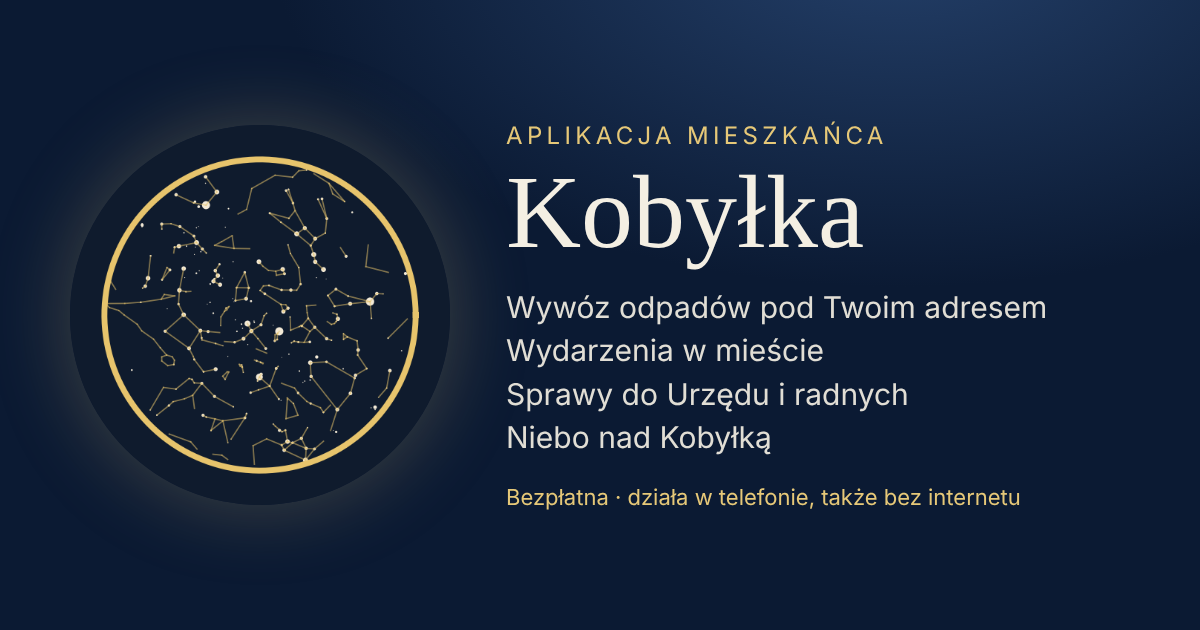
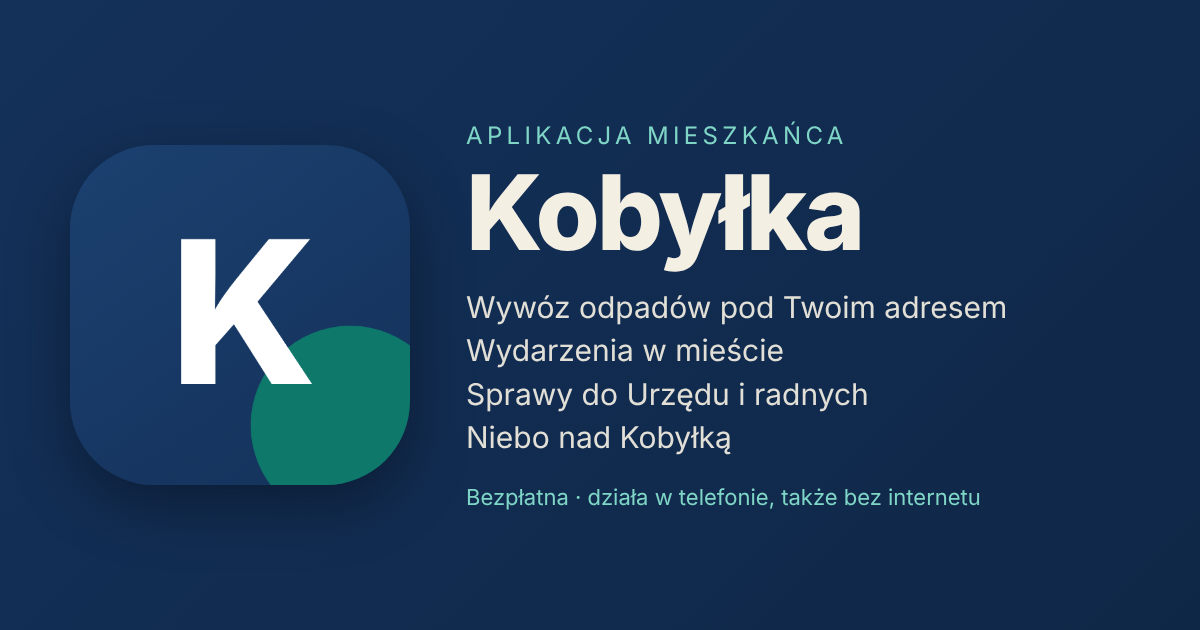
Kobyłka: nowy wygląd (UX/UI) – jasny interfejs, 5 zakładek, menu Więcej, nowa ikona; gwiazdy tylko w Odkrywaj
Claude-Session: https://claude.ai/code/session_01RNTNVLS6rVWRtfnpgfJcLE

diff --git a/kobylka/index.html b/kobylka/index.html
@@ -3,13 +3,13 @@
 <head>
 <meta charset="utf-8">
 <meta name="viewport" content="width=device-width, initial-scale=1, viewport-fit=cover">
-<meta name="theme-color" content="#0F1B2D">
+<meta name="theme-color" content="#F4F6F9">
 <title>Aplikacja mieszkańca Kobyłki</title>
 <link rel="manifest" href="manifest.webmanifest">
 <link rel="apple-touch-icon" href="apple-touch-icon.png">
 <link rel="icon" href="icon-192.png">
 <meta name="apple-mobile-web-app-capable" content="yes">
-<meta name="apple-mobile-web-app-status-bar-style" content="black-translucent">
+<meta name="apple-mobile-web-app-status-bar-style" content="default">
 <meta name="apple-mobile-web-app-title" content="Kobyłka">
 <meta property="og:type" content="website"><meta property="og:url" content="https://lechur.github.io/wehikul-czasu/kobylka/"><meta property="og:title" content="Aplikacja mieszkańca Kobyłki"><meta property="og:description" content="Wywóz odpadów pod Twoim adresem, wydarzenia, sprawy do Urzędu i radnych, firmy sąsiadów i niebo nad Kobyłką. Bezpłatnie, w telefonie."><meta property="og:image" content="https://lechur.github.io/wehikul-czasu/kobylka/og.png"><meta property="og:image:width" content="1200"><meta property="og:image:height" content="630"><meta property="og:locale" content="pl_PL"><meta name="twitter:card" content="summary_large_image">
 <meta name="description" content="Aplikacja mieszkańca Kobyłki: odpady, wydarzenia, zgłoszenia i pisma do Urzędu, sprawy do radnych, niebo nad miastem.">
@@ -78,25 +78,104 @@ nav.bar button.on{color:var(--gold)}
 details summary{cursor:pointer}
 .photo{max-width:100%;border-radius:10px;margin-top:6px}
 .empty{text-align:center;color:var(--mut);padding:20px}
+
+/* ===== UX/UI 2026-11 ===== */
+:root{--bg:#F4F6F9;--card:#fff;--ink:#14213D;--mut:#5B6577;--line:#E4E8EF;--pri:#14315A;--acc:#0E7C6B;--acc2:#E6F4F1;--acc-ink:#0B5E52;--warm:#F59E0B;--night:#14315A;--night2:#1C4170}
+body{font-family:-apple-system,BlinkMacSystemFont,"Segoe UI",Roboto,Inter,Arial,sans-serif;background:var(--bg);-webkit-font-smoothing:antialiased;-webkit-tap-highlight-color:transparent}
+header.app{position:sticky;top:0;z-index:12;background:rgba(244,246,249,.92);backdrop-filter:saturate(1.4) blur(14px);-webkit-backdrop-filter:saturate(1.4) blur(14px);color:var(--ink);padding:calc(10px + env(safe-area-inset-top)) 16px 10px;display:flex;align-items:center;gap:12px;border-bottom:1px solid transparent}
+header.app.sc{border-bottom-color:var(--line)}
+header.app .logo{width:38px;height:38px;border-radius:11px;background:var(--pri);color:#fff;display:grid;place-items:center;font-weight:800;font-size:18px;letter-spacing:-.02em;flex:none}
+header.app h1{font-family:inherit;font-weight:800;font-size:20px;letter-spacing:-.02em;margin:0;line-height:1.1}
+header.app .hdate{font-size:12.5px;color:var(--mut);text-transform:capitalize}
+.ib{width:42px;height:42px;border-radius:12px;border:0;background:#fff;color:var(--ink);display:grid;place-items:center;box-shadow:0 1px 2px rgba(20,33,61,.08);cursor:pointer}
+main{max-width:720px;padding:6px 16px calc(110px + env(safe-area-inset-bottom))}
+h2{font-family:inherit;font-weight:800;font-size:26px;letter-spacing:-.02em;margin:10px 0 12px}
+h3{font-size:12px;font-weight:700;letter-spacing:.08em;color:var(--mut);margin:22px 0 8px}
+.sec{display:flex;align-items:baseline;justify-content:space-between}.sec a,.sec button{font-size:14px;font-weight:600;color:var(--acc);text-decoration:none;background:none;border:0;padding:0;cursor:pointer}
+.card{border:0;border-radius:18px;padding:16px;box-shadow:0 1px 2px rgba(20,33,61,.06),0 4px 16px rgba(20,33,61,.04)}
+.card.night{background:var(--acc2);color:var(--ink);box-shadow:none}.card.night .mut{color:var(--mut)}
+.card.dark{background:linear-gradient(160deg,#0F1B2D,#16263f);color:#F3EAD7;border:0}.card.dark .mut{color:#c9c3b3}
+.mut{font-size:14px}
+.btn{background:var(--pri);border-radius:14px;padding:13px 18px;font-weight:650;min-height:46px;transition:transform .08s}
+.btn:active{transform:scale(.98)}
+.btn.gold{background:var(--acc);color:#fff}.btn.line{background:#fff;color:var(--ink);border:1px solid #CBD2DC}.btn.sm{padding:9px 14px;min-height:38px;font-size:14px;border-radius:12px}
+input,select,textarea{font-size:16px;padding:12px 13px;border:1px solid #CFD6E0;border-radius:12px;min-height:48px}
+input:focus,select:focus,textarea:focus{outline:none;border-color:var(--acc);box-shadow:0 0 0 3px rgba(14,124,107,.15)}
+label{font-size:14px;font-weight:600;color:var(--ink)}
+.chip{background:#EEF1F5;color:var(--ink);font-weight:500;padding:4px 10px}
+nav.bar{background:rgba(255,255,255,.96);backdrop-filter:blur(14px);-webkit-backdrop-filter:blur(14px);border-top:1px solid var(--line);grid-template-columns:repeat(5,1fr);padding:6px 6px calc(8px + env(safe-area-inset-bottom))}
+nav.bar button{color:#7A8496;font-size:11px;font-weight:600;display:flex;flex-direction:column;align-items:center;gap:3px;padding:6px 0}
+nav.bar button .i{width:24px;height:24px}
+nav.bar button.on{color:var(--acc)}
+nav.bar button.fab .i{width:30px;height:30px;color:#fff;background:var(--acc);border-radius:50%;padding:5px;box-sizing:content-box;margin-top:-4px;box-shadow:0 4px 12px rgba(14,124,107,.35)}
+nav.bar button.fab.on{color:var(--acc)}
+.toast{bottom:calc(92px + env(safe-area-inset-bottom));border-radius:14px;background:#14213D;box-shadow:0 8px 24px rgba(0,0,0,.2)}
+.qa{display:grid;grid-template-columns:1fr 1fr;gap:10px;margin:12px 0}
+.qa button{display:flex;flex-direction:column;align-items:flex-start;gap:10px;background:#fff;border:0;border-radius:18px;padding:14px;text-align:left;font:inherit;color:var(--ink);box-shadow:0 1px 2px rgba(20,33,61,.06),0 4px 16px rgba(20,33,61,.04);cursor:pointer;min-height:96px}
+.qa button:active{transform:scale(.98)}
+.qa .ico{width:40px;height:40px;border-radius:12px;display:grid;place-items:center}
+.qa b{font-size:15px;line-height:1.2}.qa small{display:block;color:var(--mut);font-size:12.5px;margin-top:2px;font-weight:400}
+.menu{background:#fff;border-radius:18px;overflow:hidden;box-shadow:0 1px 2px rgba(20,33,61,.06),0 4px 16px rgba(20,33,61,.04);margin:10px 0}
+.menu button{display:flex;align-items:center;gap:14px;width:100%;border:0;background:#fff;padding:14px 16px;font:inherit;color:var(--ink);text-align:left;border-bottom:1px solid var(--line);cursor:pointer;min-height:64px}
+.menu button:last-child{border-bottom:0}.menu button:active{background:#F6F8FA}
+.menu .ico{width:40px;height:40px;border-radius:12px;display:grid;place-items:center;flex:none}
+.menu .t{flex:1;min-width:0}.menu .t b{display:block;font-size:16px}.menu .t small{color:var(--mut);font-size:13px}
+.menu .chev{color:#A0A8B6}
+.badge{background:var(--acc);color:#fff;font-size:12px;font-weight:700;border-radius:999px;padding:2px 8px}
+.c1{background:#E6F4F1;color:#0E7C6B}.c2{background:#EAF0FB;color:#2456B3}.c3{background:#FEF3E2;color:#B45309}.c4{background:#F3ECFB;color:#7C3AED}.c5{background:#FDECEC;color:#C2410C}.c6{background:#EEF1F5;color:#334155}
+#s-waste{background:linear-gradient(135deg,#0E7C6B,#0B5E52);color:#fff}
+#s-waste .mut{color:rgba(255,255,255,.8)}#s-waste .wtag{color:#fff}#s-waste .btn.line{background:rgba(255,255,255,.15);color:#fff;border-color:rgba(255,255,255,.35)}#s-waste .btn{background:#fff;color:var(--acc-ink)}
+#s-waste .wbig{font-size:24px;font-weight:800;letter-spacing:-.01em;margin:2px 0 8px}
+.wnext{background:linear-gradient(135deg,#0E7C6B,#0B5E52)}.wnext .when{font-family:inherit;font-weight:800;letter-spacing:-.01em}
+.wday,.ev .d{background:#EEF1F5}
+.ev.sky .d{background:#14315A;color:#fff}
+.today{display:flex;gap:14px;align-items:center}.today .ico{width:44px;height:44px;border-radius:14px;display:grid;place-items:center;flex:none}
+#install{background:#fff!important;color:var(--ink);box-shadow:0 10px 30px rgba(20,33,61,.18)}#install .mut{color:var(--mut)}#install-x{color:var(--mut)}
+header.app .hdate{text-transform:none}
+#s-dzis{text-transform:none!important}
+#s-waste .wtag i,.wnext .bin i{box-shadow:0 0 0 2px rgba(255,255,255,.85)}
+nav.bar button .i{height:26px}
+nav.bar button.fab .i{width:26px;height:26px;padding:8px;margin-top:-16px}
+#s-zap .card .flex-wrap{margin-top:auto!important;padding-top:10px}
+#f-branze,#v-kal>.flex-wrap{flex-wrap:nowrap;overflow-x:auto;margin-left:-16px;margin-right:-16px;padding:2px 16px 6px;scrollbar-width:none}
+#f-branze::-webkit-scrollbar,#v-kal>.flex-wrap::-webkit-scrollbar{display:none}
+#f-branze .btn,#v-kal>.flex-wrap .btn{white-space:nowrap;flex:none}
+.back{display:none;width:38px;height:38px;border-radius:11px;border:0;background:#fff;color:var(--ink);place-items:center;box-shadow:0 1px 2px rgba(20,33,61,.08);cursor:pointer;flex:none}
+header.app.sub .back{display:grid}header.app.sub .logo{display:none}
+.back svg{transform:rotate(180deg)}
+.tabs{display:flex;gap:6px;overflow-x:auto;margin:0 -16px 10px;padding:2px 16px 4px;scrollbar-width:none}.tabs::-webkit-scrollbar{display:none}
+.tabs button{flex:none;white-space:nowrap;font:inherit;font-size:14px;font-weight:600;border:1px solid #CBD2DC;background:#fff;color:var(--ink);border-radius:999px;padding:8px 14px;cursor:pointer}
+.tabs button.on{background:var(--pri);border-color:var(--pri);color:#fff}
+header.app .logo{background:linear-gradient(145deg,#1C4170,#14315A);position:relative;overflow:hidden}header.app .logo::after{content:"";position:absolute;right:-9px;bottom:-9px;width:22px;height:22px;border-radius:50%;background:#0E7C6B;z-index:0}header.app .logo{z-index:0}header.app .logo span{position:relative;z-index:1}
+.letter{font-size:15px;line-height:1.55;color:var(--ink)}
 </style>
 </head>
 <body>
-<header>
-  <canvas id="hsky" aria-label="Niebo nad Kobyłką teraz"></canvas>
-  <div class="grow"><div class="sub" style="letter-spacing:.12em;text-transform:uppercase;color:var(--gold);font-size:11px">Aplikacja mieszkańca</div><h1>Kobyłka</h1><div class="sub" id="hsub">Niebo nad Kobyłką w tej chwili</div></div>
+<header class="app"><canvas id="hsky" hidden></canvas><span id="hsub" hidden></span>
+  <button class="back" data-go="menu" aria-label="Wróć"><svg class="i" width="22" height="22" viewBox="0 0 24 24" fill="none" stroke="currentColor" stroke-width="2" stroke-linecap="round" stroke-linejoin="round" aria-hidden="true"><path d="M9 6l6 6-6 6"/></svg></button><div class="logo" aria-hidden="true"><span>K</span></div>
+  <div class="grow"><h1>Kobyłka</h1><div class="hdate" id="hdate">Aplikacja mieszkańca</div></div>
+  <button class="ib" data-polec aria-label="Poleć aplikację"><svg class="i" width="22" height="22" viewBox="0 0 24 24" fill="none" stroke="currentColor" stroke-width="1.8" stroke-linecap="round" stroke-linejoin="round" aria-hidden="true"><circle cx="18" cy="5.5" r="2.5"/><circle cx="6" cy="12" r="2.5"/><circle cx="18" cy="18.5" r="2.5"/><path d="M8.2 10.8l7.6-4M8.2 13.2l7.6 4"/></svg></button>
 </header>
 <main>
 <!-- START -->
 <section class="view on" id="v-start">
-  <div class="card night" style="text-align:center;padding:10px"><canvas id="startsky" style="width:min(340px,80vw);height:min(340px,80vw)"></canvas><div class="mut">Niebo nad Kobyłką w tej chwili · <a href="#" data-go="odkryj" style="color:var(--gold)">zobacz niebo w swoim dniu</a></div></div>
-  <h3>Zapowiedzi</h3><div id="s-zap" style="display:flex;gap:10px;overflow-x:auto;scroll-snap-type:x mandatory;padding-bottom:6px"></div>
-  <div class="card night"><div class="row"><div class="grow"><div class="mut">Dziś</div><div class="big" id="s-dzis"></div><div class="mut" id="s-sun"></div></div><div style="text-align:right"><div class="mut">Księżyc</div><div id="s-moon"></div></div></div></div>
-  <h3>Odpady</h3><div class="card" id="s-waste"></div>
-  <h3>Moje sprawy</h3><div class="card" id="s-sprawy"></div>
-  <h3>Sąsiedzi polecają</h3><div id="s-firmy" style="display:flex;gap:10px;overflow-x:auto;scroll-snap-type:x mandatory;padding-bottom:6px"></div>
-  <h3>Na niebie</h3><div class="card" id="s-ev"></div>
-  <div class="card"><div class="mut" style="font-family:Georgia,serif;font-size:16px;color:var(--ink)">Drodzy Mieszkańcy, przygotowałam dla Was aplikację, w której Kobyłka mieści się w kieszeni: odpady, wydarzenia, sprawy do załatwienia w Urzędzie i niebo nad naszym miastem. Jest otwarta dla wszystkich radnych, więc swoją sprawę możecie przekazać radnemu, którego wybierzecie.</div><div class="mut" style="margin-top:6px">Edyta Zbieć, radna Rady Miasta Kobyłka</div></div>
-  <div class="card"><b>Coś nie działa albo czegoś brakuje?</b><p class="mut">Zgłoś dziurę, zgasłą latarnię, potrzebę przejścia dla pieszych. Aplikacja przygotuje pismo do Urzędu, przypilnuje terminu odpowiedzi i w razie potrzeby przygotuje ponaglenie.</p><button class="btn gold" data-go="zglos">Zgłoś sprawę</button></div>
+  <div class="sec"><h3>Wywóz odpadów</h3></div>
+  <div class="card" id="s-waste"></div>
+  <div class="qa">
+   <button data-go="zglos"><span class="ico c5"><svg class="i" width="24" height="24" viewBox="0 0 24 24" fill="none" stroke="currentColor" stroke-width="1.8" stroke-linecap="round" stroke-linejoin="round" aria-hidden="true"><path d="M12 3 2.5 20h19z"/><path d="M12 10v4.5M12 17.5v.01"/></svg></span><span><b>Zgłoś problem</b><small>dziura, latarnia, potrzeba</small></span></button>
+   <button data-go="sprawy"><span class="ico c2"><svg class="i" width="24" height="24" viewBox="0 0 24 24" fill="none" stroke="currentColor" stroke-width="1.8" stroke-linecap="round" stroke-linejoin="round" aria-hidden="true"><path d="M4 13l2.5-8h11L20 13v6H4z"/><path d="M4 13h4.5l1 2h5l1-2H20"/></svg></span><span><b>Moje sprawy</b><small>pisma i terminy</small></span></button>
+   <button data-go="wiecej"><span class="ico c3"><svg class="i" width="24" height="24" viewBox="0 0 24 24" fill="none" stroke="currentColor" stroke-width="1.8" stroke-linecap="round" stroke-linejoin="round" aria-hidden="true"><path d="M5 4h4l2 5-2.5 1.5a11 11 0 0 0 5 5L15 13l5 2v4a2 2 0 0 1-2 2A16 16 0 0 1 3 6a2 2 0 0 1 2-2"/></svg></span><span><b>Ważne telefony</b><small>awarie i alarmowe</small></span></button>
+   <button data-go="firmy"><span class="ico c1"><svg class="i" width="24" height="24" viewBox="0 0 24 24" fill="none" stroke="currentColor" stroke-width="1.8" stroke-linecap="round" stroke-linejoin="round" aria-hidden="true"><path d="M4 9l1.5-5h13L20 9"/><path d="M4 9a2.7 2.7 0 0 0 5.3 0 2.7 2.7 0 0 0 5.4 0 2.7 2.7 0 0 0 5.3 0"/><path d="M5.5 11.5V20h13v-8.5M10 20v-5h4v5"/></svg></span><span><b>Firmy sąsiadów</b><small>kupuj lokalnie</small></span></button>
+  </div>
+  <div class="sec"><h3>Wydarzenia</h3><button data-go="kal">Wszystkie</button></div>
+  <div id="s-zap" style="display:flex;gap:10px;overflow-x:auto;scroll-snap-type:x mandatory;padding-bottom:6px;margin:0 -16px;padding-left:16px;padding-right:16px;scroll-padding-left:16px"></div>
+  <div class="sec"><h3>Moje sprawy</h3><button data-go="sprawy">Otwórz</button></div><div class="card" id="s-sprawy"></div>
+  <div class="sec"><h3>Sąsiedzi polecają</h3><button data-go="firmy">Katalog</button></div>
+  <div id="s-firmy" style="display:flex;gap:10px;overflow-x:auto;scroll-snap-type:x mandatory;padding-bottom:6px;margin:0 -16px;padding-left:16px;padding-right:16px;scroll-padding-left:16px"></div>
+  <h3>Dziś</h3>
+  <div class="card today"><span class="ico c3"><svg class="i" width="24" height="24" viewBox="0 0 24 24" fill="none" stroke="currentColor" stroke-width="1.8" stroke-linecap="round" stroke-linejoin="round" aria-hidden="true"><path d="M12 3.5l2.6 5.3 5.9.9-4.3 4.1 1 5.8L12 16.9l-5.2 2.7 1-5.8L3.5 9.7l5.9-.9z"/></svg></span><div class="grow"><b id="s-dzis" style="text-transform:capitalize"></b><div class="mut" id="s-sun"></div><div class="mut">Księżyc: <span id="s-moon"></span></div></div><button class="btn sm line" data-go="odkryj">Odkrywaj</button></div>
+  <div class="card"><div class="letter">Drodzy Mieszkańcy, przygotowałam dla Was aplikację, w której Kobyłka mieści się w kieszeni: odpady, wydarzenia, sprawy do załatwienia w Urzędzie i niebo nad naszym miastem. Jest otwarta dla wszystkich radnych, więc swoją sprawę możecie przekazać radnemu, którego wybierzecie.</div><div class="mut" style="margin-top:8px">— Edyta Zbieć, radna Rady Miasta Kobyłka</div></div>
+  <div hidden><canvas id="startsky"></canvas><div id="s-ev"></div></div>
 </section>
 
 <!-- ODPADY -->
@@ -114,7 +193,7 @@ details summary{cursor:pointer}
 
 <!-- KALENDARZ -->
 <section class="view" id="v-kal">
-  <h2>Kalendarz Kobyłki</h2>
+  <h2>Wydarzenia</h2>
   <div class="flex-wrap"><button class="btn sm" data-f="wszystko">Wszystko</button><button class="btn sm line" data-f="miasto">W mieście</button><button class="btn sm line" data-f="niebo">Na niebie</button><button class="btn sm line" data-f="odpady">Odpady</button></div>
   <div class="card" id="k-lista"></div>
   <button class="btn line wide" id="k-ics">Dodaj cały kalendarz do telefonu</button>
@@ -134,11 +213,6 @@ details summary{cursor:pointer}
 <!-- ODKRYWAJ -->
 <section class="view" id="v-odkryj">
   <h2>Odkrywaj Kobyłkę</h2>
-  <div class="card night" style="text-align:center"><b style="font-family:Georgia,serif;font-size:20px;font-weight:400">Niebo w Twoim dniu</b>
-   <p class="mut">Urodziny, ślub, narodziny dziecka, pierwszy dzień w Kobyłce. Zobacz, jak wyglądały gwiazdy nad naszym miastem.</p>
-   <div class="flex-wrap" style="justify-content:center"><input type="date" id="my-d" value="2000-01-01" min="1900-01-01" max="2100-12-31" style="width:auto"><input type="time" id="my-t" value="21:00" style="width:auto"></div>
-   <canvas id="mysky" style="width:min(380px,84vw);height:min(380px,84vw);margin-top:10px"></canvas><div class="mut" id="my-info"></div>
-   <div class="flex-wrap" style="justify-content:center;margin-top:8px"><button class="btn sm gold" id="my-save">Zapisz jako obrazek</button><button class="btn sm" id="my-share" style="background:rgba(255,255,255,.12)">Udostępnij</button></div></div>
   <h3>Mapy Kobyłki</h3>
   <div class="tabs" id="maptabs"><button data-m="wzrost" class="on">Jak rosła Kobyłka</button><button data-m="rzezba">Rzeźba terenu</button><button data-m="budynki">Każdy budynek</button><button data-m="ulice">Ulice</button></div>
   <img id="mapimg" src="img/wzrost.jpg" alt="Mapa Kobyłki" style="width:100%;border-radius:14px;display:block" loading="lazy"><p class="mut" id="mapdesc"></p>
@@ -156,7 +230,13 @@ details summary{cursor:pointer}
    <div class="ev"><div class="d">14–15<span>VIII 1920</span></div><div class="grow"><b>Walki nad Czarną i Długą</b><div class="mut">Bitwa Warszawska tuż obok, w Ossowie. Obchody co roku na Placu 15 Sierpnia.</div></div></div>
    <div class="ev"><div class="d">1969</div><div class="grow"><b>Kobyłka miastem</b><div class="mut">Nadanie praw miejskich.</div></div></div>
    <p class="mut">Źródła: <a href="https://www.kobylka.pl/strona-3967-historia_kobylki.html">kobylka.pl</a>, <a href="https://zabytek.pl/en/obiekty/kobylka-bazylika-mniejsza-pw-swietej-trojcy">zabytek.pl</a>.</p></div>
-  <button class="btn line wide" data-go="wiecej">Ważne telefony i adresy</button>
+  <h3>Niebo nad Kobyłką</h3>
+  <div class="card dark" style="text-align:center"><b style="font-size:20px">Niebo w Twoim dniu</b>
+   <p class="mut">Urodziny, ślub, narodziny dziecka, pierwszy dzień w Kobyłce. Zobacz, jak wyglądały gwiazdy nad naszym miastem.</p>
+   <div class="flex-wrap" style="justify-content:center"><input type="date" id="my-d" value="2000-01-01" min="1900-01-01" max="2100-12-31" style="width:auto"><input type="time" id="my-t" value="21:00" style="width:auto"></div>
+   <canvas id="mysky" style="width:min(380px,84vw);height:min(380px,84vw);margin-top:10px"></canvas><div class="mut" id="my-info"></div>
+   <div class="flex-wrap" style="justify-content:center;margin-top:8px"><button class="btn sm gold" id="my-save">Zapisz jako obrazek</button><button class="btn sm" id="my-share" style="background:rgba(255,255,255,.12)">Udostępnij</button></div></div>
+  
 </section>
 
 <!-- ZGŁOŚ -->
@@ -191,30 +271,43 @@ details summary{cursor:pointer}
   <div id="sp-radna" hidden><h3>Panel radnego</h3><div class="card"><label>Jestem radną / radnym</label><select id="sp-ja"></select><p class="mut">Widzisz sprawy, które mieszkańcy przekazali Tobie.</p></div><div id="sp-radna-lista"></div></div>
 </section>
 
+<!-- MENU -->
+<section class="view" id="v-menu">
+  <h2>Więcej</h2>
+  <div class="menu">
+   <button data-go="sprawy"><span class="ico c2"><svg class="i" width="24" height="24" viewBox="0 0 24 24" fill="none" stroke="currentColor" stroke-width="1.8" stroke-linecap="round" stroke-linejoin="round" aria-hidden="true"><path d="M4 13l2.5-8h11L20 13v6H4z"/><path d="M4 13h4.5l1 2h5l1-2H20"/></svg></span><span class="t"><b>Moje sprawy</b><small>Pisma do Urzędu, terminy, radni</small></span><span id="m-sprawy"></span><span class="chev"><svg class="i" width="20" height="20" viewBox="0 0 24 24" fill="none" stroke="currentColor" stroke-width="1.8" stroke-linecap="round" stroke-linejoin="round" aria-hidden="true"><path d="M9 6l6 6-6 6"/></svg></span></button>
+   <button data-go="firmy"><span class="ico c1"><svg class="i" width="24" height="24" viewBox="0 0 24 24" fill="none" stroke="currentColor" stroke-width="1.8" stroke-linecap="round" stroke-linejoin="round" aria-hidden="true"><path d="M4 9l1.5-5h13L20 9"/><path d="M4 9a2.7 2.7 0 0 0 5.3 0 2.7 2.7 0 0 0 5.4 0 2.7 2.7 0 0 0 5.3 0"/><path d="M5.5 11.5V20h13v-8.5M10 20v-5h4v5"/></svg></span><span class="t"><b>Firmy sąsiadów</b><small>Usługi i sklepy z Kobyłki</small></span><span class="chev"><svg class="i" width="20" height="20" viewBox="0 0 24 24" fill="none" stroke="currentColor" stroke-width="1.8" stroke-linecap="round" stroke-linejoin="round" aria-hidden="true"><path d="M9 6l6 6-6 6"/></svg></span></button>
+   <button data-go="wiecej"><span class="ico c3"><svg class="i" width="24" height="24" viewBox="0 0 24 24" fill="none" stroke="currentColor" stroke-width="1.8" stroke-linecap="round" stroke-linejoin="round" aria-hidden="true"><path d="M5 4h4l2 5-2.5 1.5a11 11 0 0 0 5 5L15 13l5 2v4a2 2 0 0 1-2 2A16 16 0 0 1 3 6a2 2 0 0 1 2-2"/></svg></span><span class="t"><b>Ważne telefony i adresy</b><small>Awarie, Urząd, PSZOK, alarmowe</small></span><span class="chev"><svg class="i" width="20" height="20" viewBox="0 0 24 24" fill="none" stroke="currentColor" stroke-width="1.8" stroke-linecap="round" stroke-linejoin="round" aria-hidden="true"><path d="M9 6l6 6-6 6"/></svg></span></button>
+   <button data-go="odkryj"><span class="ico c4"><svg class="i" width="24" height="24" viewBox="0 0 24 24" fill="none" stroke="currentColor" stroke-width="1.8" stroke-linecap="round" stroke-linejoin="round" aria-hidden="true"><circle cx="12" cy="12" r="9"/><path d="M15.5 8.5l-2 5-5 2 2-5z"/></svg></span><span class="t"><b>Odkrywaj Kobyłkę</b><small>Mapy, historia, niebo w Twoim dniu</small></span><span class="chev"><svg class="i" width="20" height="20" viewBox="0 0 24 24" fill="none" stroke="currentColor" stroke-width="1.8" stroke-linecap="round" stroke-linejoin="round" aria-hidden="true"><path d="M9 6l6 6-6 6"/></svg></span></button>
+  </div>
+  <div class="menu">
+   <button id="m-inst"><span class="ico c6"><svg class="i" width="24" height="24" viewBox="0 0 24 24" fill="none" stroke="currentColor" stroke-width="1.8" stroke-linecap="round" stroke-linejoin="round" aria-hidden="true"><path d="M12 4v11M7 10l5 5 5-5"/><path d="M5 20h14"/></svg></span><span class="t"><b>Zainstaluj aplikację</b><small id="m-inst-txt">Ikona na ekranie telefonu</small></span><span class="chev"><svg class="i" width="20" height="20" viewBox="0 0 24 24" fill="none" stroke="currentColor" stroke-width="1.8" stroke-linecap="round" stroke-linejoin="round" aria-hidden="true"><path d="M9 6l6 6-6 6"/></svg></span></button>
+   <button data-polec><span class="ico c6"><svg class="i" width="24" height="24" viewBox="0 0 24 24" fill="none" stroke="currentColor" stroke-width="1.8" stroke-linecap="round" stroke-linejoin="round" aria-hidden="true"><circle cx="18" cy="5.5" r="2.5"/><circle cx="6" cy="12" r="2.5"/><circle cx="18" cy="18.5" r="2.5"/><path d="M8.2 10.8l7.6-4M8.2 13.2l7.6 4"/></svg></span><span class="t"><b>Poleć sąsiadom</b><small>Wyślij link albo pokaż kod QR</small></span><span class="chev"><svg class="i" width="20" height="20" viewBox="0 0 24 24" fill="none" stroke="currentColor" stroke-width="1.8" stroke-linecap="round" stroke-linejoin="round" aria-hidden="true"><path d="M9 6l6 6-6 6"/></svg></span></button>
+   <button data-go="wiecej" data-scroll="w-dane"><span class="ico c6"><svg class="i" width="24" height="24" viewBox="0 0 24 24" fill="none" stroke="currentColor" stroke-width="1.8" stroke-linecap="round" stroke-linejoin="round" aria-hidden="true"><path d="M12 3l8 3v6c0 4.5-3.4 8-8 9-4.6-1-8-4.5-8-9V6z"/></svg></span><span class="t"><b>Twoje dane i o aplikacji</b><small>Co zostaje w telefonie</small></span><span class="chev"><svg class="i" width="20" height="20" viewBox="0 0 24 24" fill="none" stroke="currentColor" stroke-width="1.8" stroke-linecap="round" stroke-linejoin="round" aria-hidden="true"><path d="M9 6l6 6-6 6"/></svg></span></button>
+  </div>
+</section>
+
 <!-- WIĘCEJ -->
 <section class="view" id="v-wiecej">
-  <h3>Aplikacja w Twoim telefonie</h3>
+  <h2 id="w-tel">Ważne telefony i adresy</h2>
+  <div id="w-awarie"></div>
+  <canvas id="bigsky" hidden></canvas>
+  <h3 id="w-app">Aplikacja w Twoim telefonie</h3>
   <div class="card night" id="w-inst"><div class="row"><img src="icon-192.png" alt="" style="width:52px;height:52px;border-radius:12px"><div class="grow"><b>Zainstaluj aplikację</b><div class="mut" id="w-inst-txt">Ikona na ekranie telefonu, działa także bez internetu.</div></div></div>
    <button class="btn gold wide" id="w-inst-btn" style="margin-top:10px">Zainstaluj</button>
    <div class="mut" style="margin-top:10px"><b style="color:var(--star)">Android:</b> w Chrome menu ⋮ → „Zainstaluj aplikację”.<br><b style="color:var(--star)">iPhone:</b> w Safari Udostępnij ⬆ → „Do ekranu początkowego”.</div></div>
   <div class="card" style="text-align:center"><b>Poleć sąsiadom</b><p class="mut">Pokaż ten kod do zeskanowania aparatem albo wyślij link.</p><img src="qr.png" alt="Kod QR do aplikacji" style="width:200px;height:200px"><button class="btn wide" data-polec style="margin-top:10px">Wyślij link do aplikacji</button></div>
-  <h2>Ważne telefony i adresy</h2>
-  <div id="w-awarie"></div>
-  <h3>Niebo nad Kobyłką</h3>
-  <div class="card night" style="text-align:center"><canvas id="bigsky" style="width:min(360px,86vw);height:min(360px,86vw)"></canvas><div class="mut">Tak wygląda niebo teraz. Północ u góry, wschód po lewej.</div></div>
-  <h3>Twoje dane</h3><div class="card mut"><b style="color:var(--ink)">Aplikacja nie wysyła Twoich danych na żaden serwer.</b> Sprawy, pisma i zdjęcia zostają w pamięci Twojego telefonu. Pismo do Urzędu wysyłasz sam(a): e-mailem, przez ePUAP lub gov.pl albo w kancelarii. Gdy przekazujesz sprawę radnemu, wysyłasz ją ze swojej skrzynki e-mail na adres radnego; od tej chwili za Twoje dane w tej sprawie odpowiada ten radny. Wyczyszczenie danych przeglądarki usuwa sprawy z telefonu.</div>
+  <h3 id="w-dane">Twoje dane</h3><div class="card mut"><b style="color:var(--ink)">Aplikacja nie wysyła Twoich danych na żaden serwer.</b> Sprawy, pisma i zdjęcia zostają w pamięci Twojego telefonu. Pismo do Urzędu wysyłasz sam(a): e-mailem, przez ePUAP lub gov.pl albo w kancelarii. Gdy przekazujesz sprawę radnemu, wysyłasz ją ze swojej skrzynki e-mail na adres radnego; od tej chwili za Twoje dane w tej sprawie odpowiada ten radny. Wyczyszczenie danych przeglądarki usuwa sprawy z telefonu.</div>
 <div class="card mut">Aplikacja mieszkańców i radnych Kobyłki. Inicjatywa radnej Edyty Zbieć, otwarta dla wszystkich radnych Rady Miasta. To nie jest usługa Urzędu Miasta Kobyłka. Pisma wysyłasz sam(a) albo przekazujesz wybranemu radnemu. Mapy: GUGiK (BDOT10k). Gwiazdy: HYG Database i Stellarium (CC BY-SA). Odpady i wydarzenia: kobylka.pl.</div>
 </section>
 </main>
 
 <nav class="bar">
-  <button data-go="start" class="on"><b>☾</b>Start</button>
-  <button data-go="odpady"><b>♻</b>Odpady</button>
-  <button data-go="kal"><b>✦</b>Kalendarz</button>
-  <button data-go="firmy"><b>⌂</b>Firmy</button>
-  <button data-go="odkryj"><b>☆</b>Odkrywaj</button>
-  <button data-go="zglos"><b>＋</b>Zgłoś</button>
-  <button data-go="sprawy"><b>✉</b>Sprawy</button>
+  <button data-go="start" class="on"><svg class="i" width="24" height="24" viewBox="0 0 24 24" fill="none" stroke="currentColor" stroke-width="1.8" stroke-linecap="round" stroke-linejoin="round" aria-hidden="true"><path d="M3 10.5 12 3l9 7.5"/><path d="M5 9.5V20h5v-6h4v6h5V9.5"/></svg>Start</button>
+  <button data-go="odpady"><svg class="i" width="24" height="24" viewBox="0 0 24 24" fill="none" stroke="currentColor" stroke-width="1.8" stroke-linecap="round" stroke-linejoin="round" aria-hidden="true"><path d="M4 7h16"/><path d="M9 7V4h6v3"/><path d="M6 7l1 13h10l1-13"/><path d="M10 11v6M14 11v6"/></svg>Odpady</button>
+  <button data-go="zglos" class="fab"><svg class="i" width="24" height="24" viewBox="0 0 24 24" fill="none" stroke="currentColor" stroke-width="1.8" stroke-linecap="round" stroke-linejoin="round" aria-hidden="true"><circle cx="12" cy="12" r="9"/><path d="M12 8v8M8 12h8"/></svg>Zgłoś</button>
+  <button data-go="kal"><svg class="i" width="24" height="24" viewBox="0 0 24 24" fill="none" stroke="currentColor" stroke-width="1.8" stroke-linecap="round" stroke-linejoin="round" aria-hidden="true"><rect x="3.5" y="5" width="17" height="15.5" rx="2.5"/><path d="M3.5 10h17M8 3v4M16 3v4"/></svg>Wydarzenia</button>
+  <button data-go="menu"><svg class="i" width="24" height="24" viewBox="0 0 24 24" fill="none" stroke="currentColor" stroke-width="1.8" stroke-linecap="round" stroke-linejoin="round" aria-hidden="true"><rect x="4" y="4" width="6.5" height="6.5" rx="1.5"/><rect x="13.5" y="4" width="6.5" height="6.5" rx="1.5"/><rect x="4" y="13.5" width="6.5" height="6.5" rx="1.5"/><rect x="13.5" y="13.5" width="6.5" height="6.5" rx="1.5"/></svg>Więcej</button>
 </nav>
 <div class="toast" id="toast"></div>
 <div id="install" class="card night" style="position:fixed;left:12px;right:12px;bottom:calc(78px + env(safe-area-inset-bottom));z-index:15;display:none"><div class="row"><img src="icon-192.png" alt="" style="width:44px;height:44px;border-radius:10px"><div class="grow"><b>Zainstaluj aplikację</b><div class="mut" id="install-txt">Kobyłka na ekranie Twojego telefonu, także bez internetu.</div></div><button class="btn sm gold" id="install-btn">Zainstaluj</button><button class="btn sm" id="install-x" aria-label="Zamknij" style="background:none">✕</button></div></div>
@@ -260,15 +353,18 @@ function drawSky(cv,t,labels){const dpr=window.devicePixelRatio||1,w=cv.clientWi
  c.restore();c.strokeStyle='rgba(243,234,215,.6)';c.lineWidth=1;c.beginPath();c.arc(cx,cy,Rr,0,7);c.stroke();
  if(labels){c.fillStyle='rgba(243,234,215,.75)';c.font='11px system-ui';c.textAlign='center';c.textBaseline='middle';[['PN',0,-1],['WSCH',-1,0],['PD',0,1],['ZACH',1,0]].forEach(([l,dx,dy])=>c.fillText(l,cx+dx*(Rr+15),cy+dy*(Rr+11)));}
  return m;}
-function skyTick(){const t=Date.now();const m=drawSky($('#hsky'),t,false);if($('#v-start').classList.contains('on'))drawSky($('#startsky'),t,true);if($('#v-wiecej').classList.contains('on'))drawSky($('#bigsky'),t,true);
- const s=sun();$('#s-dzis').textContent=new Date().toLocaleDateString('pl-PL',{weekday:'long',day:'numeric',month:'long'});
+function skyTick(){const t=Date.now();const m=moon(t);if($('#v-start').classList.contains('on'))drawSky($('#startsky'),t,true);if($('#v-wiecej').classList.contains('on'))drawSky($('#bigsky'),t,true);
+ const s=sun();{const q=new Date().toLocaleDateString('pl-PL',{weekday:'long',day:'numeric',month:'long'});$('#s-dzis').textContent=q.charAt(0).toUpperCase()+q.slice(1);}
  $('#s-sun').textContent='Wschód Słońca '+s[0]+' · zachód '+s[1];$('#s-moon').textContent=moonName(m)+' '+Math.round(m.ill*100)+'%';
  const next=EVS.find(e=>e.kind==='niebo'&&e.d>=today());$('#hsub').textContent=next?('Następne na niebie: '+next.title.replace(/^\S+\s/,'')+', '+fmtD(next.d)):'Niebo nad Kobyłką w tej chwili';}
 
 /* ===== nawigacja ===== */
-function go(v){$$('.view').forEach(x=>x.classList.toggle('on',x.id==='v-'+v));$$('nav.bar button').forEach(b=>b.classList.toggle('on',b.dataset.go===v));window.scrollTo(0,0);
+function go(v){$$('.view').forEach(x=>x.classList.toggle('on',x.id==='v-'+v));$$('nav.bar button').forEach(b=>b.classList.toggle('on',b.dataset.go===(TAB[v]||v)));{const hd=document.querySelector('header.app');if(hd)hd.classList.toggle('sub',TAB[v]==='menu'&&v!=='menu');}window.scrollTo(0,0);
  if(v==='zglos')drawMap(); if(v==='wiecej'||v==='start')skyTick(); if(v==='odkryj'){mine();baSize();} try{history.replaceState(null,'','#'+v);}catch(e){}}
-document.addEventListener('click',e=>{const b=e.target.closest('[data-go]');if(b)go(b.dataset.go);});
+document.addEventListener('click',e=>{const b=e.target.closest('[data-go]');if(b){e.preventDefault();go(b.dataset.go);if(b.dataset.scroll){const t=document.getElementById(b.dataset.scroll);if(t)setTimeout(()=>t.scrollIntoView({block:'start'}),30);}}});
+const TAB={start:'start',odpady:'odpady',zglos:'zglos',kal:'kal',menu:'menu',sprawy:'menu',firmy:'menu',wiecej:'menu',odkryj:'menu'};
+window.addEventListener('scroll',()=>{const h=document.querySelector('header.app');if(h)h.classList.toggle('sc',scrollY>4);},{passive:true});
+(()=>{const d=new Date().toLocaleDateString('pl-PL',{weekday:'long',day:'numeric',month:'long'});const e=document.getElementById('hdate');if(e)e.textContent=d.charAt(0).toUpperCase()+d.slice(1);})();
 
 /* ===== odpady ===== */
 const FRAK=[{k:'bio',n:'Bio',c:'#8B5A2B'},{k:'zmiesz',n:'Zmieszane',c:'#374151'},{k:'niesegreg',n:'Zmieszane',c:'#374151'},{k:'metal',n:'Metale i tworzywa',c:'#E5B700'},{k:'tworzyw',n:'Metale i tworzywa',c:'#E5B700'},{k:'papier',n:'Papier',c:'#2563EB'},{k:'szk',n:'Szkło',c:'#16A34A'},{k:'gabaryt',n:'Gabaryty',c:'#9333EA'},{k:'choink',n:'Choinki',c:'#15803D'},{k:'popi',n:'Popiół',c:'#9CA3AF'}];
@@ -329,7 +425,7 @@ function odpady(){
  const nxt=`<div class="wnext"><div class="lbl">Najbliższy wywóz · ${x.u}</div><div class="when">${kiedy(d0)}</div><div class="ile">${zaIle(d0)}</div><div class="bins">${b0.map(bin).join('')}</div></div>`;
  const lst=g.slice(1,10).map(([d,b])=>{const dt=new Date(d+'T12:00');return`<div class="wrow"><div class="wday"><b>${dt.getDate()}</b><span>${dt.toLocaleDateString('pl-PL',{month:'short'})}</span></div><div class="grow"><div style="font-weight:600;margin-bottom:3px">${kiedy(d)}</div><div class="wtags">${b.map(tag).join('')}</div></div></div>`;}).join('');
  $('#o-terminy').innerHTML=nxt+(lst?`<div class="card"><b>Kolejne wywozy</b>${lst}</div>`:'')+`<div class="card"><b>Przypomnienia w telefonie</b><p class="mut" style="margin:4px 0 8px">Dodaj kalendarz swojego rejonu, a telefon sam przypomni o wywozie.</p>${btns}${stopka}</div>`;
- $('#s-waste').innerHTML=`<div class="row"><div class="grow"><div class="mut">${x.u} · ${r.nazwa}</div><div style="font-family:Georgia,serif;font-size:22px;margin:2px 0">${kiedy(d0)}</div><div class="wtags">${b0.map(tag).join('')}</div></div><button class="btn sm line" data-go="odpady">Więcej</button></div>`;
+ $('#s-waste').innerHTML=`<div class="row"><div class="grow"><div class="mut">${x.u} · ${r.nazwa}</div><div class="wbig">${kiedy(d0)}</div><div class="mut" style="margin:-4px 0 8px">${zaIle(d0)}</div><div class="wtags">${b0.map(tag).join('')}</div></div><button class="btn sm line" data-go="odpady">Więcej</button></div>`;
 }
 function segreguj(){let q=$('#o-szukaj').value.trim().toLowerCase();if(q.length>=5)q=q.slice(0,q.length-1);if(!q||!DANE||!DANE.segregacja){$('#o-wynik').innerHTML='';return;}
  const hit=DANE.segregacja.map(f=>({f,y:(f.tak||[]).filter(x=>x.toLowerCase().includes(q)),n:(f.nie||[]).filter(x=>x.toLowerCase().includes(q))})).filter(x=>x.y.length||x.n.length);
@@ -344,7 +440,7 @@ function evHTML(e){const d=new Date(e.d+'T12:00');return `<div class="ev ${e.kin
 function kalendarz(){const a=evAll().filter(e=>FILTR==='wszystko'||e.kind===FILTR);$('#k-lista').innerHTML=a.slice(0,60).map(evHTML).join('')||'<p class="empty">Brak wydarzeń.</p>';
  $('#s-ev').innerHTML=evAll().filter(e=>e.kind==='niebo').slice(0,3).map(evHTML).join('')||'<p class="mut">Brak.</p>';
  const z=evAll().filter(e=>e.kind==='miasto'&&!/^.{0,3}(Nów|Pełnia)/.test(e.title)).slice(0,10);
- $('#s-zap').innerHTML=z.map((e,i)=>{const d=new Date(e.d+'T12:00');return `<div class="card" style="min-width:230px;max-width:260px;scroll-snap-align:start;margin:0;background:linear-gradient(160deg,#fff,#f4efe4)"><div class="mut" style="text-transform:uppercase;letter-spacing:.06em;font-size:11px;color:var(--acc)">${d.toLocaleDateString('pl-PL',{weekday:'long',day:'numeric',month:'long'})}${e.t?' · '+e.t:''}</div><b style="display:block;margin:4px 0;font-size:16px">${e.title.replace(/^\S+\s/,'')}</b><div class="mut">${e.miejsce||e.desc||''}</div><div class="flex-wrap" style="margin-top:8px"><button class="btn sm" data-ev="${i}">Do kalendarza</button>${e.url?`<a class="btn sm line" href="${e.url}">Więcej</a>`:''}</div></div>`;}).join('')||'<p class="mut">Brak zapowiedzi.</p>';
+ $('#s-zap').innerHTML=z.map((e,i)=>{const d=new Date(e.d+'T12:00');return `<div class="card" style="min-width:230px;max-width:260px;scroll-snap-align:start;margin:0;background:#fff;display:flex;flex-direction:column"><div class="mut" style="text-transform:uppercase;letter-spacing:.06em;font-size:11px;font-weight:700;color:var(--acc)">${d.toLocaleDateString('pl-PL',{weekday:'long',day:'numeric',month:'long'})}${e.t?' · '+e.t:''}</div><b style="display:block;margin:4px 0;font-size:16px">${e.title.replace(/^\S+\s/,'')}</b><div class="mut">${e.miejsce||e.desc||''}</div><div class="flex-wrap" style="margin-top:8px"><button class="btn sm" data-ev="${i}">Do kalendarza</button>${e.url?`<a class="btn sm line" href="${e.url}">Więcej</a>`:''}</div></div>`;}).join('')||'<p class="mut">Brak zapowiedzi.</p>';
  $$('#s-zap [data-ev]').forEach(b=>b.onclick=()=>{const e=z[+b.dataset.ev];save('wydarzenie.ics',icsOf([Object.assign({},e,{alarm:'PT2H'})],'Kobyłka'),'text/calendar');});}
 $$('[data-f]').forEach(b=>b.onclick=()=>{FILTR=b.dataset.f;$$('[data-f]').forEach(x=>x.classList.toggle('line',x!==b));kalendarz();});
 function icsOf(list,name){const L=['BEGIN:VCALENDAR','VERSION:2.0','PRODID:-//Moja Kobylka//PL','X-WR-CALNAME:'+name];const st=new Date().toISOString().replace(/[-:]/g,'').slice(0,15)+'Z';
@@ -525,14 +621,13 @@ async function init(){
  const zap=store('dane');if(zap){$('#z-imie').value=zap.imie||'';$('#z-adres').value=zap.adres||'';$('#z-kontakt').value=zap.kontakt||'';}
  SPRAWY=store('sprawy')||[];renderSprawy();
  const h=(location.hash||'').slice(1);const md=store('mojdzien');if(md){$('#my-d').value=md[0];$('#my-t').value=md[1];}
- if(['start','odpady','kal','firmy','odkryj','zglos','sprawy','wiecej'].includes(h))go(h);
+ if(['start','odpady','kal','firmy','odkryj','zglos','sprawy','wiecej','menu'].includes(h))go(h);
  // konto i baza (gdy dostępne)
  try{db=await window.claude?.use?.('db');const u=await window.claude?.use?.('user');uid=u?await u.id():null;isOwner=u?await u.isOwner():false;}catch(_){db=null;}
  if(db&&uid){const local=store('sprawy')||[];db.collection('data/users/'+uid).onSnapshot(sn=>{SPRAWY=sn.docs.map(x=>x.data()).sort((a,b)=>a.id<b.id?1:-1);
    if(local.length&&!sn.docs.length){local.forEach(s=>db.collection('data/users/'+uid).doc(s.id).set(s));store('sprawy',[]);local.length=0;}renderSprawy();},err=>toast('Konto niedostępne: '+err.code));
   let canEdit=false;try{canEdit=await (await window.claude.use('user')).canEdit();}catch(_){} if(isOwner||canEdit)panelRadnego();}
 }
-const more=document.createElement('button');more.dataset.go='wiecej';more.className='btn sm line';more.textContent='Telefony, adresy i niebo';more.style.margin='8px 0';$('#v-start').appendChild(more);
 window.addEventListener('resize',()=>{if(SKY){skyTick();drawMap();}});
 init();
 if('serviceWorker' in navigator){navigator.serviceWorker.register('sw.js').catch(()=>{});}
@@ -547,7 +642,6 @@ async function polec(){const d={title:'Aplikacja mieszkańca Kobyłki',text:'Kie
  try{if(navigator.share){await navigator.share(d);return;}}catch(e){if(e.name==='AbortError')return;}
  try{await navigator.clipboard.writeText(d.text+' '+APP_URL);toast('Link skopiowany. Wklej go na Messengerze, WhatsAppie albo w grupie.');}catch(e){prompt('Skopiuj link:',APP_URL);}}
 document.addEventListener('click',e=>{if(e.target.closest('[data-polec]'))polec();});
-const sb=document.createElement('button');sb.className='btn sm line';sb.dataset.polec='1';sb.textContent='Poleć aplikację sąsiadom';sb.style.margin='8px 0 0 8px';$('#v-start').appendChild(sb);
 const inApp=/FBAN|FBAV|FB_IAB|Instagram|Messenger|Line\/|wv\)/i.test(navigator.userAgent),iOS=/iphone|ipad/i.test(navigator.userAgent);
 function instUI(){const t=$('#w-inst-txt'),b=$('#w-inst-btn');
  if(standalone){t.textContent='Aplikacja jest już zainstalowana na tym telefonie.';b.hidden=true;return;}
@@ -557,6 +651,8 @@ function instUI(){const t=$('#w-inst-txt'),b=$('#w-inst-btn');
 window.addEventListener('beforeinstallprompt',()=>setTimeout(instUI,0));window.addEventListener('appinstalled',()=>{inst.style.display='none';toast('Gotowe! Aplikacja jest na ekranie telefonu.');});
 if(inApp&&!store('noinstall')){$('#install-txt').textContent='Żeby zainstalować, otwórz link w '+(iOS?'Safari':'Chrome')+' (menu ⋯ → Otwórz w przeglądarce).';$('#install-btn').hidden=true;setTimeout(()=>inst.style.display='block',3000);}
 instUI();
+$('#m-inst').onclick=()=>{if(deferred&&!inApp){deferred.prompt();deferred.userChoice.then(()=>{deferred=null;instUI();});return;}go('wiecej');setTimeout(()=>{const t=document.getElementById('w-app');if(t)t.scrollIntoView({block:'start'});},30);};
+if(standalone){$('#m-inst-txt').textContent='Już zainstalowana';}
 })();
 </script>
 </body>

diff --git a/kobylka/sw.js b/kobylka/sw.js
@@ -1,4 +1,4 @@
-const C='kobylka-v6';const C2=1;const CORE=['./','index.html','img/wzrost.jpg','sky.json','wydarzenia.json','mapa.json','dane.json','terminy.json','ulice_geo.json','firmy.json','manifest.webmanifest','icon-192.png','icon-512.png','qr.png'];
+const C='kobylka-v7';const C2=1;const CORE=['./','index.html','img/wzrost.jpg','sky.json','wydarzenia.json','mapa.json','dane.json','terminy.json','ulice_geo.json','firmy.json','manifest.webmanifest','icon-192.png','icon-512.png','qr.png'];
 self.addEventListener('install',e=>{e.waitUntil(caches.open(C).then(c=>c.addAll(CORE)));self.skipWaiting();});
 self.addEventListener('activate',e=>{e.waitUntil(caches.keys().then(k=>Promise.all(k.filter(x=>x!==C).map(x=>caches.delete(x)))));self.clients.claim();});
 self.addEventListener('fetch',e=>{const u=new URL(e.request.url);if(e.request.method!=='GET'||u.origin!==location.origin)return;
